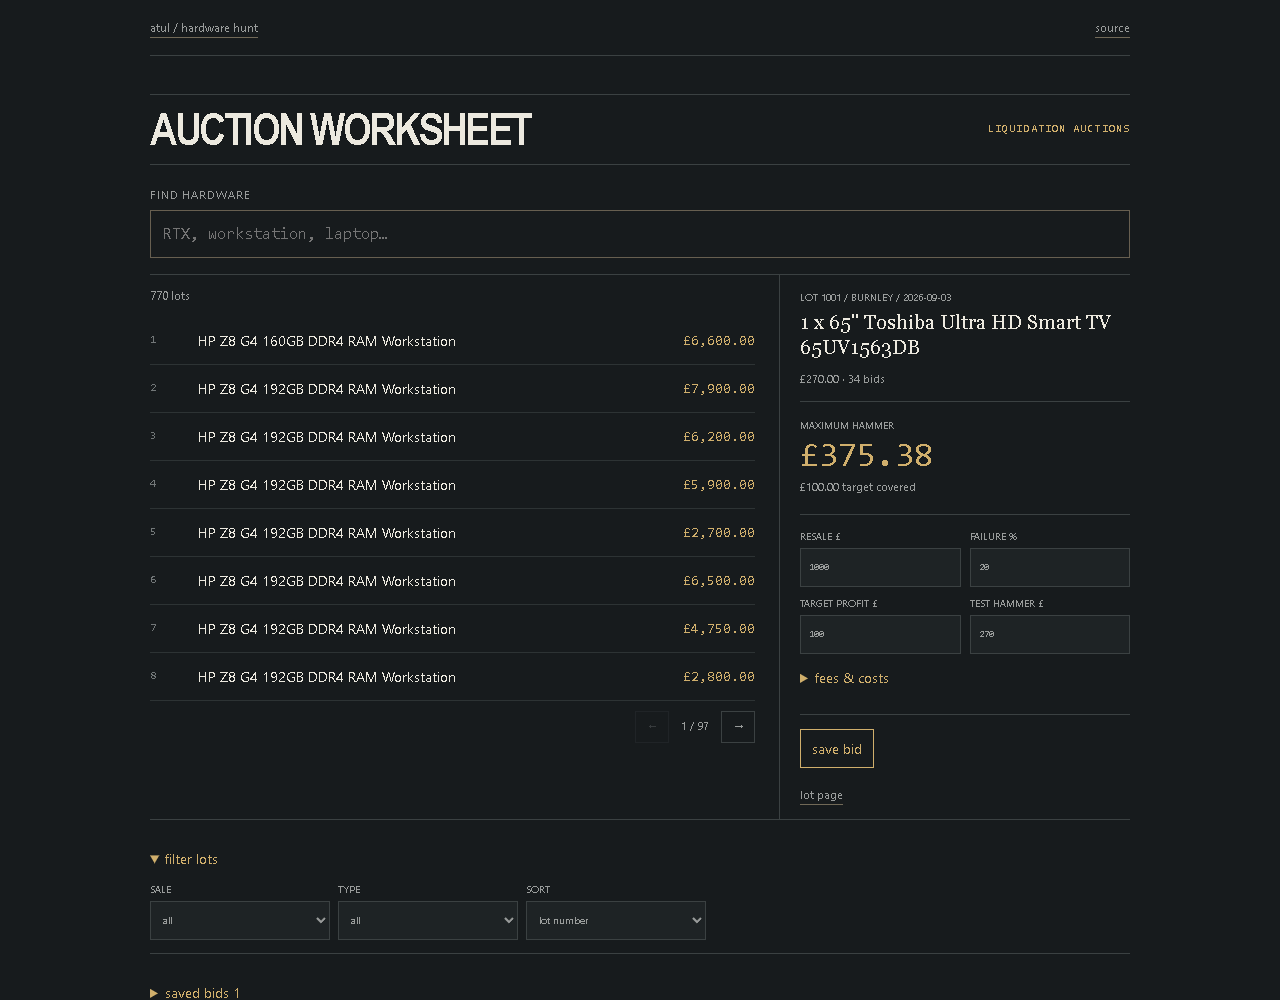
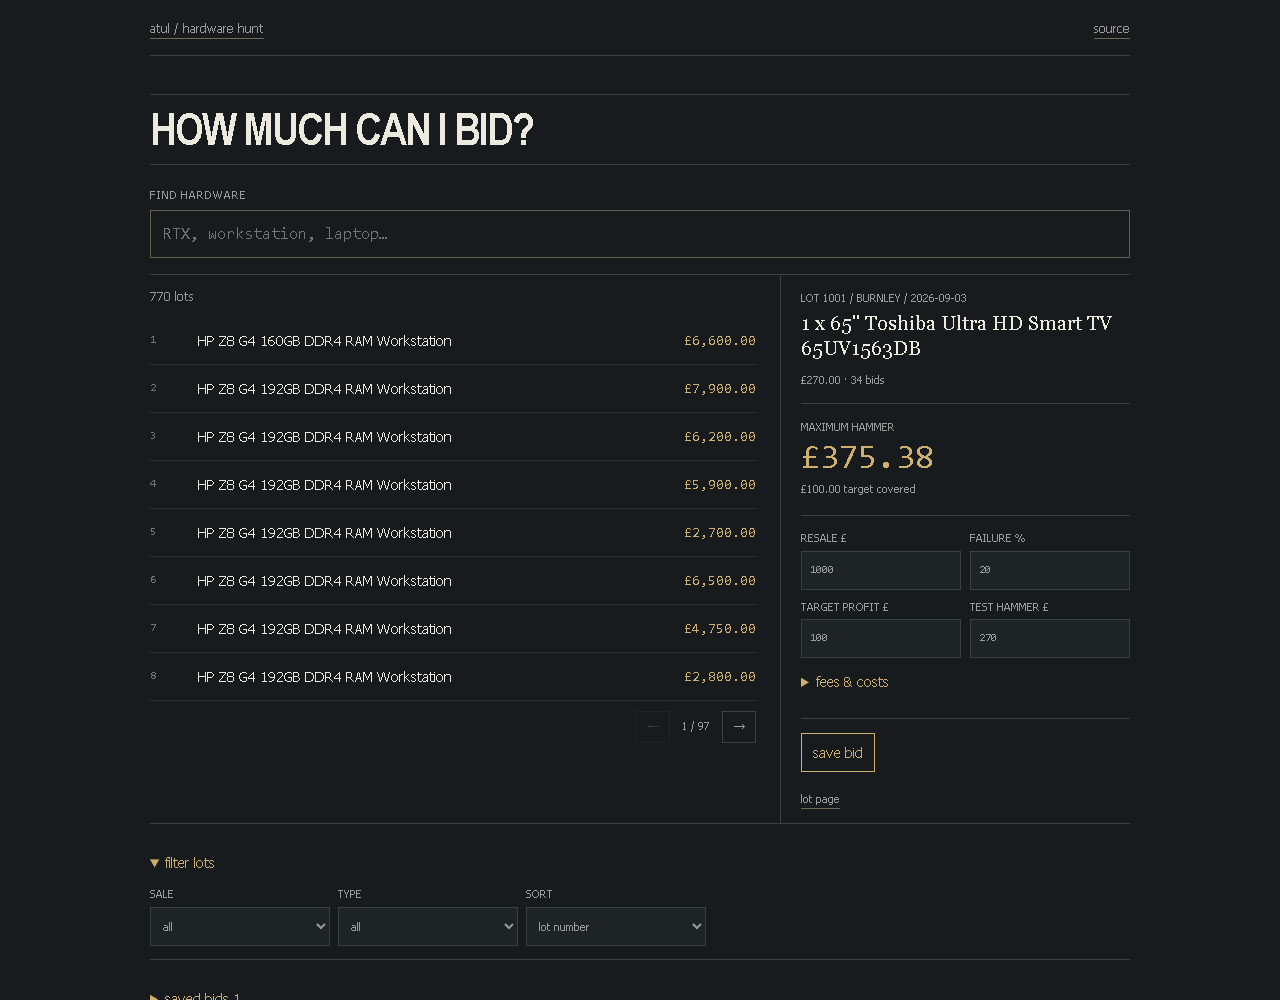
Turn Hardware Hunt into a clear bid desk

diff --git a/examples/portfolio/style.css b/examples/portfolio/style.css
@@ -1,1 +1,1 @@
-:root{color-scheme:dark;--bg:#171b1d;--ink:#ece9df;--muted:#999c9b;--line:#3b4142;--gold:#d0af6c;--panel:#1e2325;--bad:#cd8d7e}*{box-sizing:border-box}body{margin:0;background:var(--bg);color:var(--ink);font:14px/1.5 "Segoe UI",Arial,sans-serif}a{color:inherit;text-decoration-color:#716957;text-underline-offset:5px}button,input,select{font:inherit;color:inherit;border-radius:0}:focus-visible{outline:2px solid var(--gold);outline-offset:3px}[hidden]{display:none!important}header,main{width:min(980px,calc(100% - 48px));margin:auto}header{height:68px;display:flex;align-items:center;justify-content:space-between;border-bottom:1px solid var(--line);color:var(--muted);font-size:12px}main{padding:68px 0}.hero p{margin:0 0 9px;color:var(--muted);font-size:11px;text-transform:uppercase;letter-spacing:.1em}.hero h1{margin:0 0 46px;font:54px/.97 Georgia,serif;font-weight:400;letter-spacing:-.04em}.hero em{color:var(--gold);font-weight:400}.search{display:block;color:var(--muted);font-size:11px;text-transform:uppercase;letter-spacing:.08em}.search input{display:block;width:100%;min-height:52px;margin-top:7px;padding:10px 12px;border:1px solid #675f50;background:transparent;font-size:17px}.workspace{display:grid;grid-template-columns:minmax(0,1.35fr) minmax(300px,.75fr);margin-top:24px;border-block:1px solid var(--line)}.catalogue{padding-right:24px;border-right:1px solid var(--line)}#count{color:var(--muted);font-size:12px}.lot{width:100%;display:grid;grid-template-columns:38px 1fr auto;gap:10px;align-items:center;min-height:58px;padding:8px 0;border:0;border-bottom:1px solid #2d3334;background:transparent;color:inherit;text-align:left}.lot[aria-pressed=true]{color:var(--gold)}.lot-no{color:#727778;font-size:11px}.lot small{display:none}.lot .price{color:var(--gold);white-space:nowrap}.pagination{display:flex;justify-content:flex-end;align-items:center;gap:12px;padding:15px 0;color:var(--muted);font-size:11px}.pagination button{width:34px;height:32px;border:1px solid var(--line);background:transparent}.pagination button:disabled{opacity:.25}#bid-calculator{padding:20px 0 20px 24px;align-self:start;position:sticky;top:10px}.back-to-results{display:none}#lot-sale{margin:0;color:var(--muted);font-size:10px;text-transform:uppercase}#lot-title{margin:5px 0;font:20px/1.25 Georgia,serif;font-weight:400}#lot-result,#saved-status,#provenance{color:var(--muted);font-size:11px}#result{margin:22px 0;padding-block:16px;border-block:1px solid var(--line)}#result>span{color:var(--muted);font-size:10px;text-transform:uppercase}#maximum{display:block;margin:4px 0;color:var(--gold);font:36px/1 Georgia,serif}#verdict{margin:7px 0;color:var(--muted);font-size:11px}.inputs{display:grid;grid-template-columns:1fr 1fr;gap:9px}.inputs label,.filters label{color:var(--muted);font-size:10px;text-transform:uppercase}.inputs input,.filters select{width:100%;min-height:39px;margin-top:4px;padding:6px 8px;border:1px solid var(--line);background:var(--panel)}details{border-bottom:1px solid var(--line);padding-bottom:13px}summary{padding:13px 0;color:var(--gold);cursor:pointer}#save{min-height:39px;padding:7px 11px;border:1px solid var(--gold);background:transparent;color:var(--gold)}#lot-source{display:inline-block;margin-top:8px;color:var(--muted);font-size:11px}.filters,.sheet{margin-top:22px}.filters>label{display:inline-block;width:180px;margin-right:8px}.saved-lot{display:grid;grid-template-columns:1fr auto auto;gap:12px;padding:9px 0;border-bottom:1px solid #2d3334}.saved-lot small{display:block;color:var(--muted)}.saved-lot button,.sheet>button{border:1px solid var(--line);background:transparent;padding:6px 8px}@media(max-width:760px){header,main{width:calc(100% - 30px)}header{height:58px}main{padding:46px 0}.hero h1{font-size:clamp(40px,13vw,53px)}.workspace{display:block}.catalogue{padding:0;border:0}#bid-calculator{position:static;padding:22px 0;border-top:1px solid var(--line)}.back-to-results{display:inline-block}.lot{grid-template-columns:30px 1fr}.lot .price{grid-column:2}.filters>label{width:100%;margin:5px 0}}@media(prefers-reduced-motion:reduce){*{transition:none!important}}
+:root{color-scheme:dark;--bg:#171b1d;--ink:#ece9df;--muted:#999c9b;--line:#3b4142;--gold:#d0af6c;--panel:#1e2325;--bad:#cd8d7e}*{box-sizing:border-box}body{margin:0;background:var(--bg);color:var(--ink);font:14px/1.5 "Segoe UI",Arial,sans-serif}a{color:inherit;text-decoration-color:#716957;text-underline-offset:5px}button,input,select{font:inherit;color:inherit;border-radius:0}:focus-visible{outline:2px solid var(--gold);outline-offset:3px}[hidden]{display:none!important}header,main{width:min(980px,calc(100% - 48px));margin:auto}header{height:68px;display:flex;align-items:center;justify-content:space-between;border-bottom:1px solid var(--line);color:var(--muted);font-size:12px}main{padding:68px 0}.hero p{margin:0 0 9px;color:var(--muted);font-size:11px;text-transform:uppercase;letter-spacing:.1em}.hero h1{margin:0 0 46px;font:54px/.97 Georgia,serif;font-weight:400;letter-spacing:-.04em}.hero em{color:var(--gold);font-weight:400}.search{display:block;color:var(--muted);font-size:11px;text-transform:uppercase;letter-spacing:.08em}.search input{display:block;width:100%;min-height:52px;margin-top:7px;padding:10px 12px;border:1px solid #675f50;background:transparent;font-size:17px}.workspace{display:grid;grid-template-columns:minmax(0,1.35fr) minmax(300px,.75fr);margin-top:24px;border-block:1px solid var(--line)}.catalogue{padding-right:24px;border-right:0}#count{color:var(--muted);font-size:12px}.lot{width:100%;display:grid;grid-template-columns:38px 1fr auto;gap:10px;align-items:center;min-height:58px;padding:8px 0;border:0;border-bottom:1px solid #2d3334;background:transparent;color:inherit;text-align:left}.lot[aria-pressed=true]{color:var(--gold)}.lot-no{color:#727778;font-size:11px}.lot small{display:none}.lot .price{color:var(--gold);white-space:nowrap}.pagination{display:flex;justify-content:flex-end;align-items:center;gap:12px;padding:15px 0;color:var(--muted);font-size:11px}.pagination button{width:34px;height:32px;border:1px solid var(--line);background:transparent}.pagination button:disabled{opacity:.25}#bid-calculator{padding:20px 0 20px 24px;align-self:start;position:sticky;top:10px}.back-to-results{display:none}#lot-sale{margin:0;color:var(--muted);font-size:10px;text-transform:uppercase}#lot-title{margin:5px 0;font:20px/1.25 Georgia,serif;font-weight:400}#lot-result,#saved-status,#provenance{color:var(--muted);font-size:11px}#result{margin:22px 0;padding-block:16px;border-block:1px solid var(--line)}#result>span{color:var(--muted);font-size:10px;text-transform:uppercase}#maximum{display:block;margin:4px 0;color:var(--gold);font:36px/1 Georgia,serif}#verdict{margin:7px 0;color:var(--muted);font-size:11px}.inputs{display:grid;grid-template-columns:1fr 1fr;gap:9px}.inputs label,.filters label{color:var(--muted);font-size:10px;text-transform:uppercase}.inputs input,.filters select{width:100%;min-height:39px;margin-top:4px;padding:6px 8px;border:1px solid var(--line);background:var(--panel)}details{border-bottom:1px solid var(--line);padding-bottom:13px}summary{padding:13px 0;color:var(--gold);cursor:pointer}#save{min-height:39px;padding:7px 11px;border:1px solid var(--gold);background:transparent;color:var(--gold)}#lot-source{display:inline-block;margin-top:8px;color:var(--muted);font-size:11px}.filters,.sheet{margin-top:22px}.filters>label{display:inline-block;width:180px;margin-right:8px}.saved-lot{display:grid;grid-template-columns:1fr auto auto;gap:12px;padding:9px 0;border-bottom:1px solid #2d3334}.saved-lot small{display:block;color:var(--muted)}.saved-lot button,.sheet>button{border:1px solid var(--line);background:transparent;padding:6px 8px}@media(max-width:760px){header,main{width:calc(100% - 30px)}header{height:58px}main{padding:46px 0}.hero h1{font-size:clamp(40px,13vw,53px)}.workspace{display:block}.catalogue{padding:0;border:0}#bid-calculator{position:static;padding:22px 0;border-top:1px solid var(--line)}.back-to-results{display:inline-block}.lot{grid-template-columns:30px 1fr}.lot .price{grid-column:2}.filters>label{width:100%;margin:5px 0}}@media(prefers-reduced-motion:reduce){*{transition:none!important}}

diff --git a/examples/portfolio/identity.css b/examples/portfolio/identity.css
@@ -1,2 +1,19 @@
-/* auction docket: lot numbers, costs and the bid ceiling */
-body{font-family:"Segoe UI",Arial,sans-serif}header{height:56px}main{padding:38px 0 48px}.hero{display:grid;grid-template-columns:1fr 210px;align-items:center;margin-bottom:22px;padding:14px 0;border-block:1px solid var(--line)}.hero p{grid-column:2;grid-row:1;margin:0;color:var(--gold);font-family:ui-monospace,Consolas,monospace;text-align:right}.hero h1{grid-column:1;grid-row:1;margin:0;font:800 45px/.9 "Arial Narrow","Segoe UI",sans-serif;letter-spacing:-.055em;text-transform:uppercase}.search input{min-height:46px;font-family:ui-monospace,Consolas,monospace}.workspace{margin-top:16px}.lot{min-height:48px;padding-block:5px}.lot-no,.lot .price{font-family:ui-monospace,Consolas,monospace}.pagination{padding:10px 0}#bid-calculator{padding:15px 0 15px 20px}#result{margin:14px 0;padding-block:11px}#maximum{font-family:ui-monospace,Consolas,monospace;font-size:34px}.inputs input{font-family:ui-monospace,Consolas,monospace}.filters,.sheet{margin-top:15px}@media(max-width:760px){main{padding:29px 0 40px}.hero{display:block}.hero p{text-align:left;margin-bottom:8px}.hero h1{font-size:38px}#bid-calculator{padding:17px 0}}
+/* Auction docket: lot numbers, costs and the bid ceiling. */
+body{font-family:Tahoma,"Segoe UI",sans-serif}
+header{height:56px}
+main{padding:38px 0 48px}
+.hero{display:block;margin-bottom:22px;padding:14px 0;border-block:1px solid var(--line)}
+.hero h1{margin:0;font:800 45px/.9 "Arial Narrow",Tahoma,sans-serif;letter-spacing:-.045em;text-transform:uppercase}
+.search input{min-height:46px;font-family:ui-monospace,Consolas,monospace}
+.workspace{margin-top:16px}
+.catalogue{border-right:0}
+.lot{min-height:48px;padding-block:5px}
+.lot-no,.lot .price{font-family:ui-monospace,Consolas,monospace}
+.pagination{padding:10px 0}
+#bid-calculator{padding:15px 0 15px 20px;border-left:1px solid var(--line)}
+#result{margin:14px 0;padding-block:11px}
+#result>span,#lot-sale,.inputs label,.filters label{font-size:11px}
+#maximum{font-family:ui-monospace,Consolas,monospace;font-size:34px}
+.inputs input{font-family:ui-monospace,Consolas,monospace}
+.filters,.sheet{margin-top:15px}
+@media(max-width:760px){main{padding:29px 0 40px}.hero h1{font-size:38px}#bid-calculator{padding:17px 0;border-left:0}}

diff --git a/examples/portfolio/index.html b/examples/portfolio/index.html
@@ -1,7 +1,7 @@
-<!doctype html><html lang="en"><head><meta charset="utf-8"><meta name="viewport" content="width=device-width,initial-scale=1"><title>hardware hunt / bid limit</title><link rel="stylesheet" href="style.css"><link rel="stylesheet" href="identity.css"></head><body>
+<!doctype html><html lang="en"><head><meta charset="utf-8"><meta name="viewport" content="width=device-width,initial-scale=1"><title>hardware hunt / bid limit</title><link rel="icon" href="favicon.svg" type="image/svg+xml"><link rel="stylesheet" href="style.css"><link rel="stylesheet" href="identity.css"></head><body>
 <header><a href="https://lolstar123.github.io/just-a-little-further/">atul / hardware hunt</a><a href="https://github.com/LolStar123/hardware-hunt">source</a></header>
 <main>
-<section class="hero"><p>liquidation auctions</p><h1>auction worksheet</h1></section>
+<section class="hero"><h1>how much can i bid?</h1></section>
 <label class="search">find hardware<input id="search" type="search" placeholder="RTX, workstation, laptop…"></label>
 <div class="workspace">
 <section class="catalogue"><p id="count" role="status">loading lots…</p><div id="lots"></div><nav class="pagination"><button id="previous">←</button><span id="page"></span><button id="next">→</button></nav></section>

diff --git a/DESIGN.md b/DESIGN.md
@@ -1,0 +1,15 @@
+# Hardware Hunt demo design
+
+The bid desk starts with the decision that matters: how much can I bid without destroying the margin?
+
+The catalogue uses 770 public historical liquidation lots. Selecting a lot loads its observed hammer, sale premium and VAT assumptions. The calculator works backwards from resale value, failure risk, salvage, fees, collection, repairs and target profit to a maximum hammer bid. Saved decisions persist and export as a bid sheet.
+
+The visual language is an auction docket: dark paper, amber money figures, lot numbers and hard rules. The catalogue and calculator share one ruled surface so the page reads as a working desk rather than a shop or finance dashboard.
+
+Rules:
+
+- The maximum hammer is always the visual priority.
+- Example resale and failure assumptions must remain editable and clearly distinct from historical facts.
+- Public lot data never exposes private bidding limits or bidder identity.
+- Filters and saved bids stay secondary until needed.
+- Mobile moves from the lot list to the calculator without horizontal overflow.
